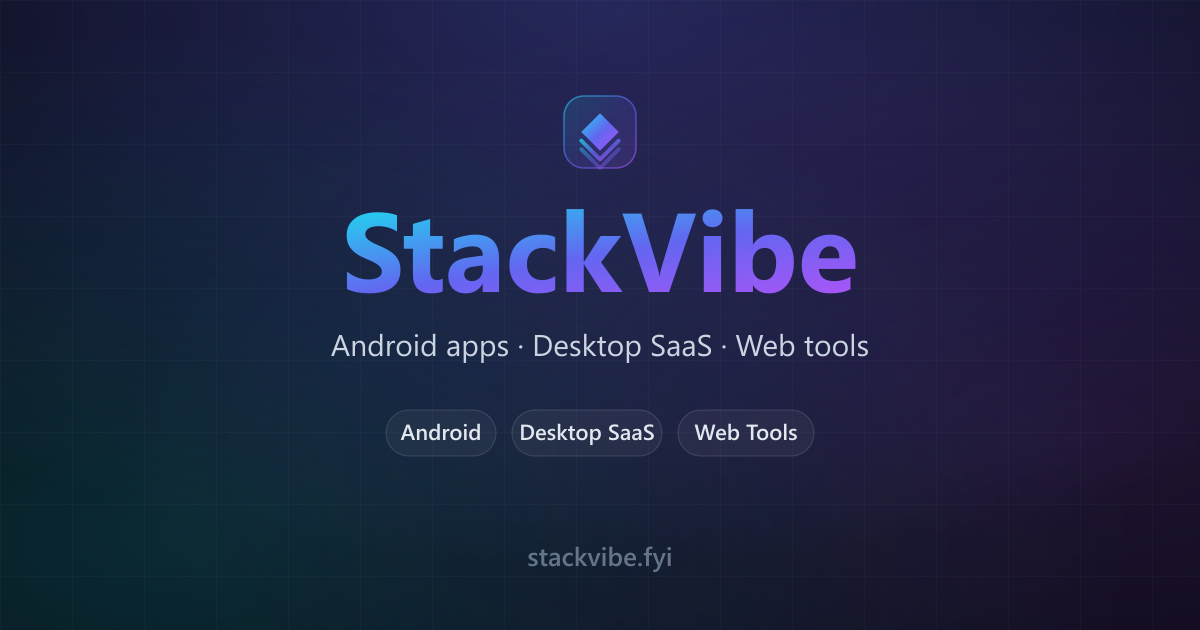
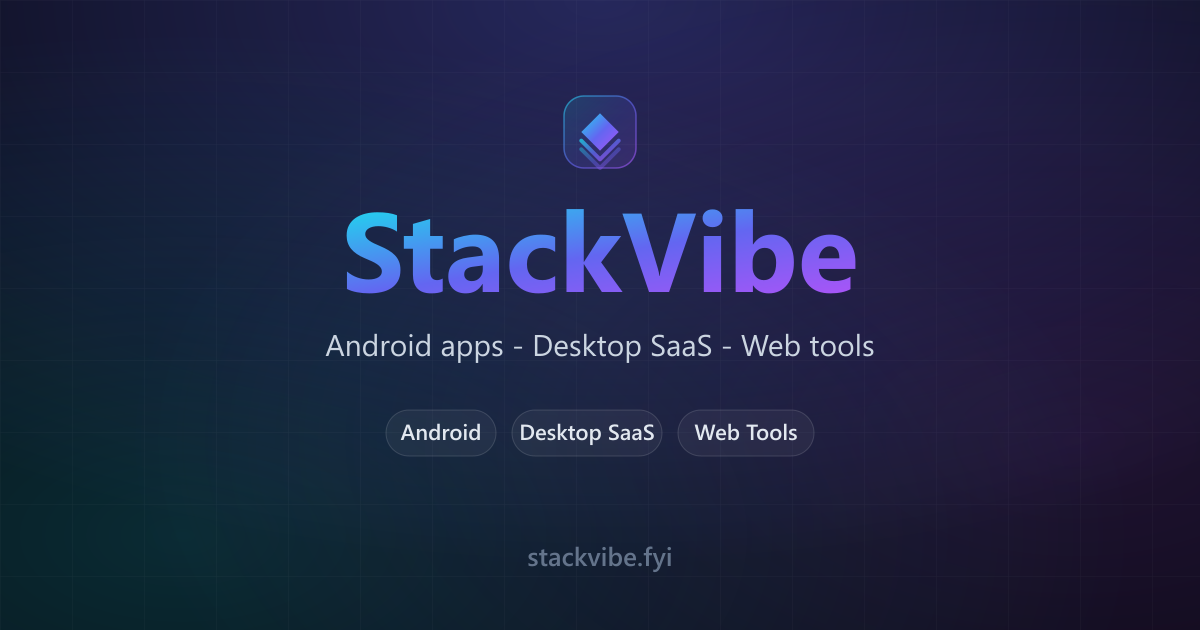
Fix broken unicode characters (euro symbol mojibake) with pure ASCII text

Changed region(s): [[0.2775, 0.5127, 0.4317, 0.573], [0.6167, 0.5127, 0.74, 0.573]]

diff --git a/src/data/site.js b/src/data/site.js
@@ -1,5 +1,5 @@
 // ============================================================================
-// StackVibe â€” single source of truth.
+// StackVibe - single source of truth.
 // Every service, link, feature and string lives here.
 // Swap the placeholders for your real details and the whole site updates.
 // ============================================================================
@@ -11,12 +11,12 @@ export const site = {
   email: 'hello@stackvibe.fyi',
   tagline: 'Freelance software studio',
   description:
-    'Freelance software studio building Android apps, desktop SaaS and websites for founders and teams. From idea to launch â€” clean code, fixed quotes, real deadlines.',
-  location: 'Remote â€” worldwide',
+    'Freelance software studio building Android apps, desktop SaaS and websites for founders and teams. From idea to launch - clean code, fixed quotes, real deadlines.',
+  location: 'Remote - worldwide',
   availability: { label: 'Available for new projects', tone: 'emerald' },
   copyrightYear: 2026,
   contact: {
-    // Paste your Formspree form id to receive real messages (https://formspree.io â†’ New form).
+    // Paste your Formspree form id to receive real messages (https://formspree.io > New form).
     // Example: 'https://formspree.io/f/abcdwxyz'. Leave empty to open the visitor's mail client instead.
     formEndpoint: '',
   },
@@ -35,7 +35,7 @@ export const hero = {
   title: 'You bring the idea.',
   highlight: 'I build the product.',
   subtitle:
-    'Android apps, desktop SaaS and websites for founders and teams â€” designed, engineered and shipped by one senior full-stack developer who cares about the details.',
+    'Android apps, desktop SaaS and websites for founders and teams - designed, engineered and shipped by one senior full-stack developer who cares about the details.',
   primaryCta: { label: 'Start a project', href: '#contact' },
   secondaryCta: { label: 'See what I build', href: '#services' },
   badges: ['Fixed-price quotes', 'Weekly demos', 'Clean, maintainable code'],
@@ -78,7 +78,7 @@ export const services = [
     name: 'Android Apps',
     icon: 'phone',
     accent: 'cyan',
-    tagline: 'Native Android apps, polished and performant â€” from first sketch to Play Store launch.',
+    tagline: 'Native Android apps, polished and performant - from first sketch to Play Store launch.',
     features: [
       'Flutter & Kotlin (native)',
       'Play Store listing & release',
@@ -123,14 +123,14 @@ export const services = [
     name: 'Something Else',
     icon: 'sparkles',
     accent: 'emerald',
-    tagline: 'A game, a bot, a dashboard, an API, a prototype â€” tell me what you have in mind.',
+    tagline: 'A game, a bot, a dashboard, an API, a prototype - tell me what you have in mind.',
     features: [
       'Games & 3D (Unity)',
       'APIs & integrations',
       'Automation & scripts',
       'Tech consulting & audits',
     ],
-    cta: 'Letâ€™s talk about it',
+    cta: "Let's talk about it",
     href: '#contact',
   },
 ]
@@ -144,7 +144,7 @@ export const processSteps = [
   {
     step: '02',
     title: 'Proposal & quote',
-    text: 'A fixed-price quote, timeline and milestone plan â€” no surprises, no hourly clock.',
+    text: 'A fixed-price quote, timeline and milestone plan - no surprises, no hourly clock.',
   },
   {
     step: '03',
@@ -185,10 +185,9 @@ export const stackGroups = [
 ]
 
 export const socials = [
+  { id: 'email', label: 'Email', icon: 'mail', href: 'mailto:hello@stackvibe.fyi' },
   { id: 'facebook', label: 'Facebook', icon: 'facebook', href: '#' },
   { id: 'instagram', label: 'Instagram', icon: 'instagram', href: '#' },
-  
-  { id: 'email', label: 'Email', icon: 'mail', href: 'mailto:hello@stackvibe.fyi' },
 ]
 
 export const footerColumns = [
@@ -210,7 +209,7 @@ export const footerColumns = [
   },
 ]
 
-export const budgetOptions = ['Under $1,000', '$1,000 â€“ $5,000', '$5,000 â€“ $15,000', '$15,000+', 'Not sure yet']
+export const budgetOptions = ['Under $1,000', '$1,000 - $5,000', '$5,000 - $15,000', '$15,000+', 'Not sure yet']
 
 export const privacySections = [
   {
@@ -219,7 +218,7 @@ export const privacySections = [
   },
   {
     title: 'What we collect',
-    body: 'When you contact us, we collect the information you choose to send â€” typically your name, email address and project details. Our website is static and analytics-free by default, so we do not track your browsing behaviour.',
+    body: 'When you contact us, we collect the information you choose to send - typically your name, email address and project details. Our website is static and analytics-free by default, so we do not track your browsing behaviour.',
   },
   {
     title: 'How we use data',

diff --git a/src/components/Contact.jsx b/src/components/Contact.jsx
@@ -11,7 +11,7 @@ const selectCls = `${inputCls} appearance-none pr-10 [&>option]:bg-base-900 [&>o
 
 export default function Contact() {
   const [copied, setCopied] = useState(false)
-  const [status, setStatus] = useState('idle') // idle | sending | sent | error
+  const [status, setStatus] = useState('idle')
 
   const copyEmail = async () => {
     try {
@@ -58,9 +58,9 @@ export default function Contact() {
     const name = String(values.name || 'there')
     const email = String(values.email || '')
     const message = String(values.message || '')
-    const subject = encodeURIComponent(`Project enquiry — ${name}`)
+    const subject = encodeURIComponent(`Project enquiry - ${name}`)
     const body = encodeURIComponent(
-      `Service: ${values.service || 'Not selected'}\nBudget: ${values.budget || 'Not selected'}\n\n${message}\n\n— ${name}${email ? ` (${email})` : ''}`,
+      `Service: ${values.service || 'Not selected'}\nBudget: ${values.budget || 'Not selected'}\n\n${message}\n\n- ${name}${email ? ` (${email})` : ''}`,
     )
     window.location.href = `mailto:${site.email}?subject=${subject}&body=${body}`
   }
@@ -109,7 +109,7 @@ export default function Contact() {
 
                 <div className="mt-8 flex items-center gap-2 text-sm text-slate-400">
                   <span className="size-1.5 animate-pulse rounded-full bg-emerald-400" />
-                  {site.availability.label} · {site.location}
+                  {site.availability.label} | {site.location}
                 </div>
 
                 <ul className="mt-6 space-y-2.5">
@@ -178,7 +178,7 @@ export default function Contact() {
                     id="contact-message"
                     name="message"
                     rows={5}
-                    placeholder="What are you trying to build? Platforms, features, timeline — anything helps."
+                    placeholder="What are you trying to build? Platforms, features, timeline - anything helps."
                     className={`${inputCls} resize-none`}
                     required
                   />
@@ -189,16 +189,16 @@ export default function Contact() {
                   disabled={status === 'sending'}
                   className="group inline-flex items-center justify-center gap-2 rounded-xl bg-gradient-to-r from-cyan-400 via-indigo-500 to-violet-500 px-5 py-3.5 text-sm font-semibold text-white shadow-[0_16px_40px_-16px_rgba(99,102,241,0.8)] transition-transform hover:-translate-y-0.5 disabled:cursor-not-allowed disabled:opacity-60"
                 >
-                  {status === 'sending' ? 'Sending…' : 'Request my project'}
+                  {status === 'sending' ? 'Sending...' : 'Request my project'}
                   {status !== 'sending' && <Icon name="arrowRight" className="size-4 transition-transform group-hover:translate-x-0.5" />}
                 </button>
 
                 <p aria-live="polite" role="status" className="min-h-5 text-center text-xs">
-                  {status === 'sent' && <span className="text-emerald-400">Message sent — I'll get back to you within 24h. ✅</span>}
+                  {status === 'sent' && <span className="text-emerald-400">Message sent - I'll get back to you within 24h.</span>}
                   {status === 'error' && <span className="text-amber-400">Something went wrong. Please email me directly at {site.email}.</span>}
                   {status === 'idle' && (
                     <span className="text-slate-600">
-                      {site.contact?.formEndpoint ? 'Sent securely to my inbox.' : 'Opens your email client — nothing is stored on this site.'}
+                      {site.contact?.formEndpoint ? 'Sent securely to my inbox.' : 'Opens your email client - nothing is stored on this site.'}
                     </span>
                   )}
                 </p>

diff --git a/index.html b/index.html
@@ -4,8 +4,8 @@
     <meta charset="UTF-8" />
     <meta name="viewport" content="width=device-width, initial-scale=1" />
 
-    <title>StackVibe â€” Freelance Software Studio | Android Apps, SaaS & Websites</title>
-    <meta name="description" content="Freelance software studio building Android apps, desktop SaaS and websites for founders and teams. From idea to launch â€” clean code, fixed quotes, real deadlines." />
+    <title>StackVibe - Freelance Software Studio | Android Apps, SaaS & Websites</title>
+    <meta name="description" content="Freelance software studio building Android apps, desktop SaaS and websites for founders and teams. From idea to launch - clean code, fixed quotes, real deadlines." />
     <meta name="author" content="StackVibe" />
     <meta name="robots" content="index, follow, max-image-preview:large" />
     <meta name="theme-color" content="#05060b" />
@@ -19,15 +19,15 @@
     <meta property="og:site_name" content="StackVibe" />
     <meta property="og:locale" content="en_US" />
     <meta property="og:url" content="https://stackvibe.fyi/" />
-    <meta property="og:title" content="StackVibe â€” Freelance Software Studio | Android Apps, SaaS & Websites" />
-    <meta property="og:description" content="Android apps, desktop SaaS and websites for founders and teams. From idea to launch â€” clean code, fixed quotes, real deadlines." />
+    <meta property="og:title" content="StackVibe - Freelance Software Studio | Android Apps, SaaS & Websites" />
+    <meta property="og:description" content="Android apps, desktop SaaS and websites for founders and teams. From idea to launch - clean code, fixed quotes, real deadlines." />
     <meta property="og:image" content="https://stackvibe.fyi/og-image.png" />
     <meta property="og:image:width" content="1200" />
     <meta property="og:image:height" content="630" />
 
     <meta name="twitter:card" content="summary_large_image" />
     <meta name="twitter:site" content="@stackvibe" />
-    <meta name="twitter:title" content="StackVibe â€” Freelance Software Studio | Android Apps, SaaS & Websites" />
+    <meta name="twitter:title" content="StackVibe - Freelance Software Studio | Android Apps, SaaS & Websites" />
     <meta name="twitter:description" content="Android apps, desktop SaaS and websites for founders and teams." />
     <meta name="twitter:image" content="https://stackvibe.fyi/og-image.png" />
 
@@ -52,11 +52,7 @@
       "logo": { "@type": "ImageObject", "url": "https://stackvibe.fyi/icon-512.png", "width": 512, "height": 512 },
       "priceRange": "$$",
       "areaServed": "Worldwide",
-      "sameAs": [
-
-
-
-      ],
+      "sameAs": [],
       "makesOffer": [
         { "@type": "Offer", "itemOffered": { "@type": "Service", "name": "Android app development" } },
         { "@type": "Offer", "itemOffered": { "@type": "Service", "name": "Desktop SaaS development" } },

diff --git a/src/components/HeroVisual.jsx b/src/components/HeroVisual.jsx
@@ -36,7 +36,6 @@ export default function HeroVisual() {
     >
       <div aria-hidden="true" className="absolute -inset-8 rounded-[2.5rem] bg-gradient-to-tr from-cyan-500/20 via-indigo-500/10 to-fuchsia-500/20 blur-2xl" />
 
-      {/* Main editor window */}
       <div className="glass relative overflow-hidden rounded-3xl shadow-[0_40px_90px_-40px_rgba(0,0,0,0.95)]">
         <div className="flex items-center gap-3 border-b border-white/[0.06] bg-white/[0.03] px-4 py-3">
           <span className="flex gap-1.5" aria-hidden="true">
@@ -75,13 +74,12 @@ export default function HeroVisual() {
         <div className="flex items-center justify-between border-t border-white/[0.06] bg-white/[0.02] px-4 py-2.5 text-[11px] text-slate-500">
           <span className="flex items-center gap-1.5">
             <Icon name="check" className="size-3.5 text-emerald-400" />
-            TypeScript · 0 errors
+            TypeScript &middot; 0 errors
           </span>
           <span>compiled in 24ms</span>
         </div>
       </div>
 
-      {/* Floating analytics card */}
       <div className="glass absolute -right-3 top-16 hidden w-52 rounded-2xl p-4 shadow-[0_30px_60px_-30px_rgba(0,0,0,0.9)] animate-float sm:block lg:-right-6">
         <p className="text-[11px] font-medium uppercase tracking-wide text-slate-500">Monthly recurring</p>
         <p className="mt-1 text-2xl font-semibold tracking-tight text-white">$18.4k</p>
@@ -101,14 +99,13 @@ export default function HeroVisual() {
         </svg>
       </div>
 
-      {/* Floating deploy card */}
       <div className="glass absolute -bottom-6 -left-2 flex items-center gap-3 rounded-2xl p-3.5 pr-5 shadow-[0_30px_60px_-30px_rgba(0,0,0,0.9)] animate-float-slow sm:-left-6">
         <span className="grid size-10 place-items-center rounded-xl bg-emerald-400/15 text-emerald-300">
           <Icon name="rocket" className="size-5" />
         </span>
         <div>
           <p className="text-sm font-medium text-white">Deployed to production</p>
-          <p className="mt-0.5 text-xs text-slate-500">v2.4.0 · 2 minutes ago</p>
+          <p className="mt-0.5 text-xs text-slate-500">v2.4.0 &middot; 2 minutes ago</p>
         </div>
         <span className="ml-2 h-1.5 w-16 overflow-hidden rounded-full bg-white/10" aria-hidden="true">
           <span className="block h-full w-3/4 rounded-full bg-gradient-to-r from-cyan-400 to-violet-500" />

diff --git a/src/components/Footer.jsx b/src/components/Footer.jsx
@@ -10,14 +10,14 @@ export default function Footer({ basePath = '' }) {
       <div className="mx-auto max-w-7xl px-5 py-14 sm:px-8 lg:px-10">
         <div className="grid gap-10 md:grid-cols-[1.5fr_1fr_1fr_1.2fr]">
           <div>
-            <a href={resolve('#home')} className="flex items-center gap-2.5" aria-label="StackVibe â€” home">
+            <a href={resolve('#home')} className="flex items-center gap-2.5" aria-label="StackVibe - home">
               <Logo className="size-9" />
               <span className="text-lg font-semibold tracking-tight text-white">
                 Stack<span className="text-gradient">Vibe</span>
               </span>
             </a>
             <p className="mt-4 max-w-xs text-sm leading-relaxed text-slate-400">
-              Independent software studio crafting Android apps, desktop SaaS and web tools â€” built clean,
+              Independent software studio crafting Android apps, desktop SaaS and web tools - built clean,
               shipped on time.
             </p>
             <div className="mt-5 flex gap-2.5">
@@ -68,11 +68,11 @@ export default function Footer({ basePath = '' }) {
 
         <div className="mt-12 flex flex-col items-center justify-between gap-4 border-t border-white/[0.06] pt-6 sm:flex-row">
           <p className="text-xs text-slate-500">
-            Â© {site.copyrightYear} {site.name} Â· {site.domain}
+            &copy; {site.copyrightYear} {site.name} &middot; {site.domain}
           </p>
           <div className="flex items-center gap-5 text-xs text-slate-500">
             <a href="/privacy.html" className="transition-colors hover:text-white">Privacy Policy</a>
-            <span aria-hidden="true">Â·</span>
+            <span aria-hidden="true">&middot;</span>
             <span>Built with React & Tailwind CSS</span>
           </div>
           <a

diff --git a/src/pages/PrivacyPage.jsx b/src/pages/PrivacyPage.jsx
@@ -10,7 +10,7 @@ export default function PrivacyPage() {
       <GlowBackground />
       <header className="sticky top-0 z-50 border-b border-white/[0.06] bg-base-950/80 backdrop-blur-xl">
         <div className="mx-auto flex h-16 max-w-4xl items-center justify-between px-5">
-          <a href="/" className="flex items-center gap-2.5" aria-label="StackVibe — home">
+          <a href="/" className="flex items-center gap-2.5" aria-label="StackVibe - home">
             <Logo className="size-8" />
             <span className="font-semibold tracking-tight text-white">
               Stack<span className="text-gradient">Vibe</span>
@@ -26,7 +26,7 @@ export default function PrivacyPage() {
       <main className="mx-auto max-w-3xl px-5 py-16 sm:py-24">
         <h1 className="text-4xl font-semibold tracking-tight text-white sm:text-5xl">Privacy Policy</h1>
         <p className="mt-3 text-sm text-slate-500">
-          Last updated: {site.copyrightYear} · {site.domain}
+          Last updated: {site.copyrightYear} &middot; {site.domain}
         </p>
         <div className="mt-12 space-y-10">
           {privacySections.map((section) => (

diff --git a/src/components/About.jsx b/src/components/About.jsx
@@ -27,13 +27,13 @@ export default function About() {
             <Reveal className="space-y-4 text-base leading-relaxed text-slate-400">
               <p>
                 I'm a full-stack engineer working with founders, startups and small teams to turn
-                ideas into real products — Android apps, desktop SaaS and websites. One person,
+                ideas into real products - Android apps, desktop SaaS and websites. One person,
                 end to end: architecture, UI, backend, deployment and monitoring.
               </p>
               <p>
                 The stack changes per project, but the standard never does: readable code, honest
                 performance budgets, and releases that land on schedule. You own everything at the
-                end — the repo, the accounts, the docs.
+                end - the repo, the accounts, the docs.
               </p>
             </Reveal>
 

diff --git a/privacy.html b/privacy.html
@@ -3,8 +3,8 @@
   <head>
     <meta charset="UTF-8" />
     <meta name="viewport" content="width=device-width, initial-scale=1" />
-    <title>Privacy Policy — StackVibe</title>
-    <meta name="description" content="Privacy policy for StackVibe (stackvibe.fyi) — how we handle data across our Android apps, desktop SaaS and web tools." />
+    <title>Privacy Policy - StackVibe</title>
+    <meta name="description" content="Privacy policy for StackVibe (stackvibe.fyi) - how we handle data across our Android apps, desktop SaaS and web tools." />
     <meta name="robots" content="index, follow" />
     <meta name="theme-color" content="#05060b" />
     <link rel="canonical" href="https://stackvibe.fyi/privacy.html" />

diff --git a/src/components/ProcessSection.jsx b/src/components/ProcessSection.jsx
@@ -21,7 +21,7 @@ export default function ProcessSection() {
                 <h3 className="mt-4 text-lg font-semibold text-white">{step.title}</h3>
                 <p className="mt-2 text-sm leading-relaxed text-slate-400">{step.text}</p>
                 {index < processSteps.length - 1 && (
-                  <span aria-hidden="true" className="absolute -right-3 top-8 hidden text-xl text-slate-600 lg:block">→</span>
+                  <span aria-hidden="true" className="absolute -right-3 top-8 hidden text-xl text-slate-600 lg:block">&rarr;</span>
                 )}
               </div>
             </Reveal>

diff --git a/src/components/Header.jsx b/src/components/Header.jsx
@@ -32,7 +32,7 @@ export default function Header() {
       }`}
     >
       <div className="mx-auto flex h-16 max-w-7xl items-center justify-between gap-6 px-5 sm:h-18 sm:px-8 lg:px-10">
-        <a href="#home" onClick={close} className="flex items-center gap-2.5 rounded-xl" aria-label="StackVibe â€” home">
+        <a href="#home" onClick={close} className="flex items-center gap-2.5 rounded-xl" aria-label="StackVibe - home">
           <Logo className="size-9" />
           <span className="text-[1.05rem] font-semibold tracking-tight text-white">
             Stack<span className="text-gradient">Vibe</span>

diff --git a/src/components/ServicesSection.jsx b/src/components/ServicesSection.jsx
@@ -19,7 +19,7 @@ export default function ServicesSection() {
           align="center"
           kicker="Services"
           title={<>What I can build <span className="text-gradient">for you</span></>}
-          description="Design, development, deployment and support — handled end-to-end. Pick a lane, or mix several into one project."
+          description="Design, development, deployment and support - handled end-to-end. Pick a lane, or mix several into one project."
         />
 
         <div className="mt-12 grid gap-6 md:grid-cols-2">

diff --git a/404.html b/404.html
@@ -3,7 +3,7 @@
   <head>
     <meta charset="UTF-8" />
     <meta name="viewport" content="width=device-width, initial-scale=1" />
-    <title>Page not found — StackVibe</title>
+    <title>Page not found - StackVibe</title>
     <meta name="description" content="The page you were looking for could not be found." />
     <meta name="robots" content="noindex" />
     <meta name="theme-color" content="#05060b" />
